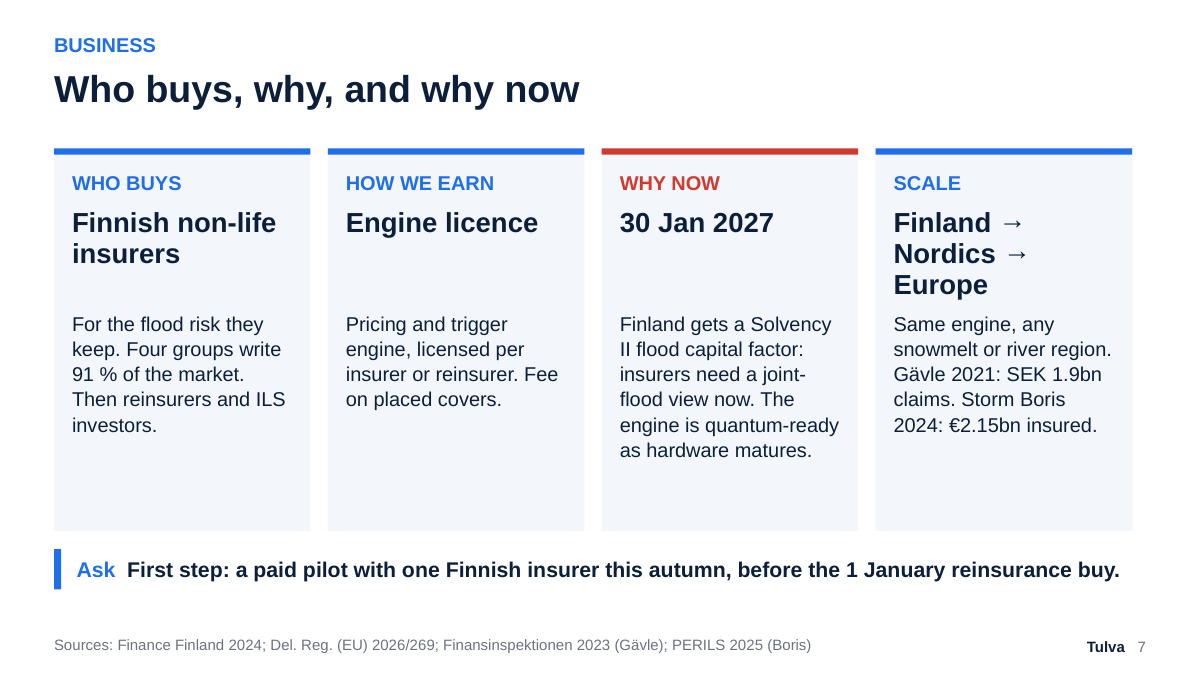
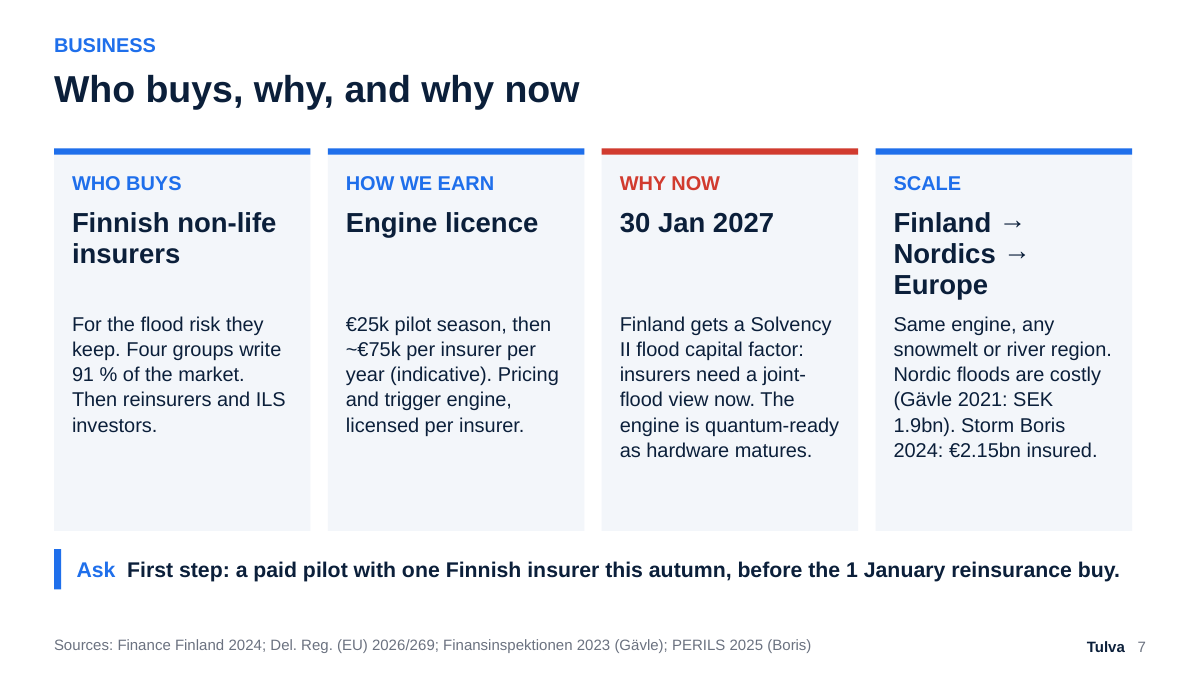
Business slide: indicative licence price; Gävle wording

Changed region(s): [[0.2775, 0.4667, 0.4625, 0.6533], [0.74, 0.5289, 0.925, 0.6844]]

diff --git a/deck/build_deck.py b/deck/build_deck.py
@@ -41,7 +41,7 @@ PALE_BLUE = RGBColor(0xA9, 0xC8, 0xF5)
 FONT = "Arial"
 
 # >>> TEAM DECISION: licence price shown on the Business slide, e.g. "€60k". None = no price shown.
-LICENCE_PRICE: str | None = None
+LICENCE_PRICE: str | None = "€25k pilot season, then ~€75k"   # indicative, see CLAIMS.md
 # <<<
 
 W, H = 13.333, 7.5
@@ -321,12 +321,12 @@ def s7_business(prs, n):
     cols = [
         ("Who buys", "Finnish non-life insurers", "For the flood risk they keep. "
          "Four groups write 91 % of the market. Then reinsurers and ILS investors."),
-        ("How we earn", "Engine licence", (f"{LICENCE_PRICE} per insurer per year. " if LICENCE_PRICE else "")
-         + "Pricing and trigger engine, licensed per insurer or reinsurer. Fee on placed covers."),
+        ("How we earn", "Engine licence", (f"{LICENCE_PRICE} per insurer per year (indicative). " if LICENCE_PRICE else "")
+         + "Pricing and trigger engine, licensed per insurer."),
         ("Why now", "30 Jan 2027", "Finland gets a Solvency II flood capital factor: insurers need a "
          "joint-flood view now. The engine is quantum-ready as hardware matures."),
         ("Scale", "Finland → Nordics → Europe", "Same engine, any snowmelt or river region. "
-         "Gävle 2021: SEK 1.9bn claims. Storm Boris 2024: €2.15bn insured."),
+         "Nordic floods are costly (Gävle 2021: SEK 1.9bn). Storm Boris 2024: €2.15bn insured."),
     ]
     cw, gap = 2.85, 0.193
     for i, (k, head, body) in enumerate(cols):

diff --git a/CLAIMS.md b/CLAIMS.md
@@ -166,3 +166,5 @@ correlation dropped), wet-spring qubit from the fitted P(W | s,t,r), five area q
   mid14-iqm-emerald-20261009T115403Z
 - Measured limit, all runs together: ≤ ~15 qubits, ≤ ~50 two-qubit gates, events no rarer than ~1-in-10 give the
   right numbers raw or after calibration; 1-in-50 events and ≥ ~200 gates do not · qae-iqm
+- Licence price on slide 7: "€25k pilot season, then ~€75k per insurer per year (indicative)": ASSUMPTION set by the
+  team from typical risk-model SaaS pricing (research estimate €50–150k/insurer/yr); to validate in a pilot · assumption
